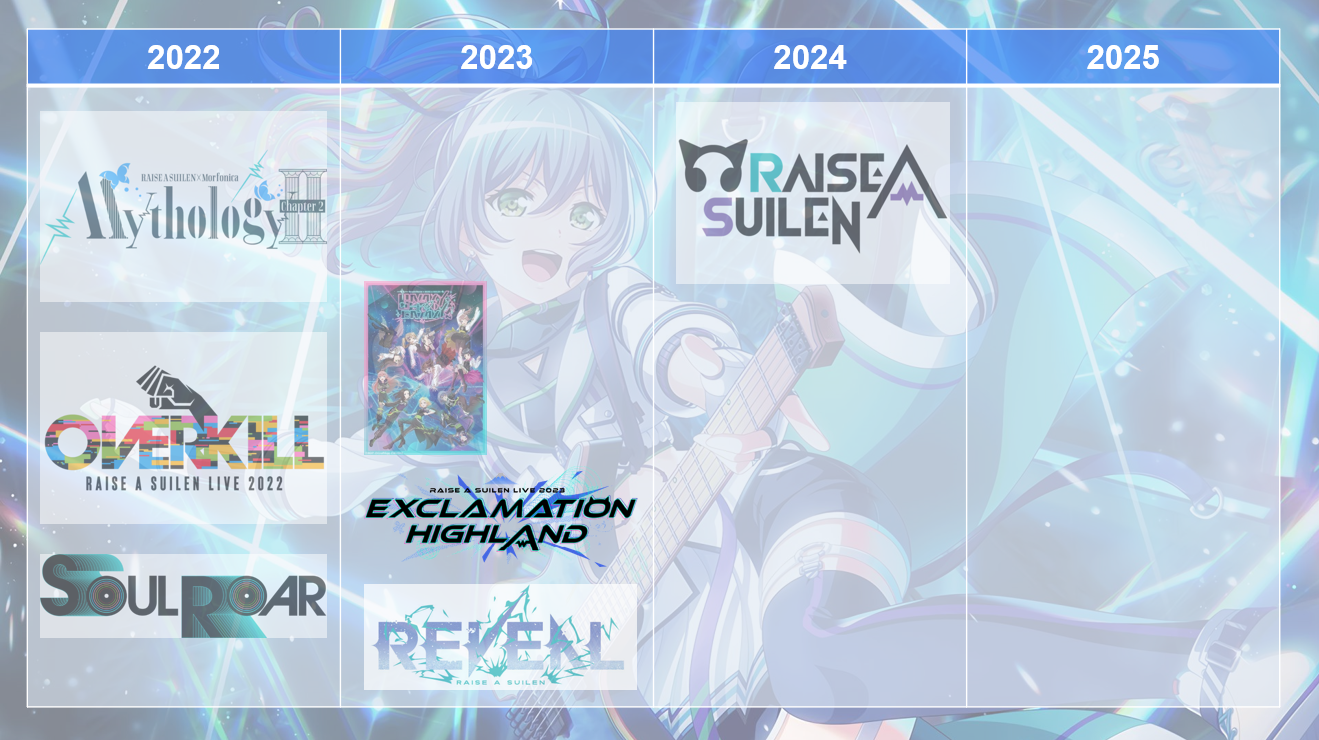
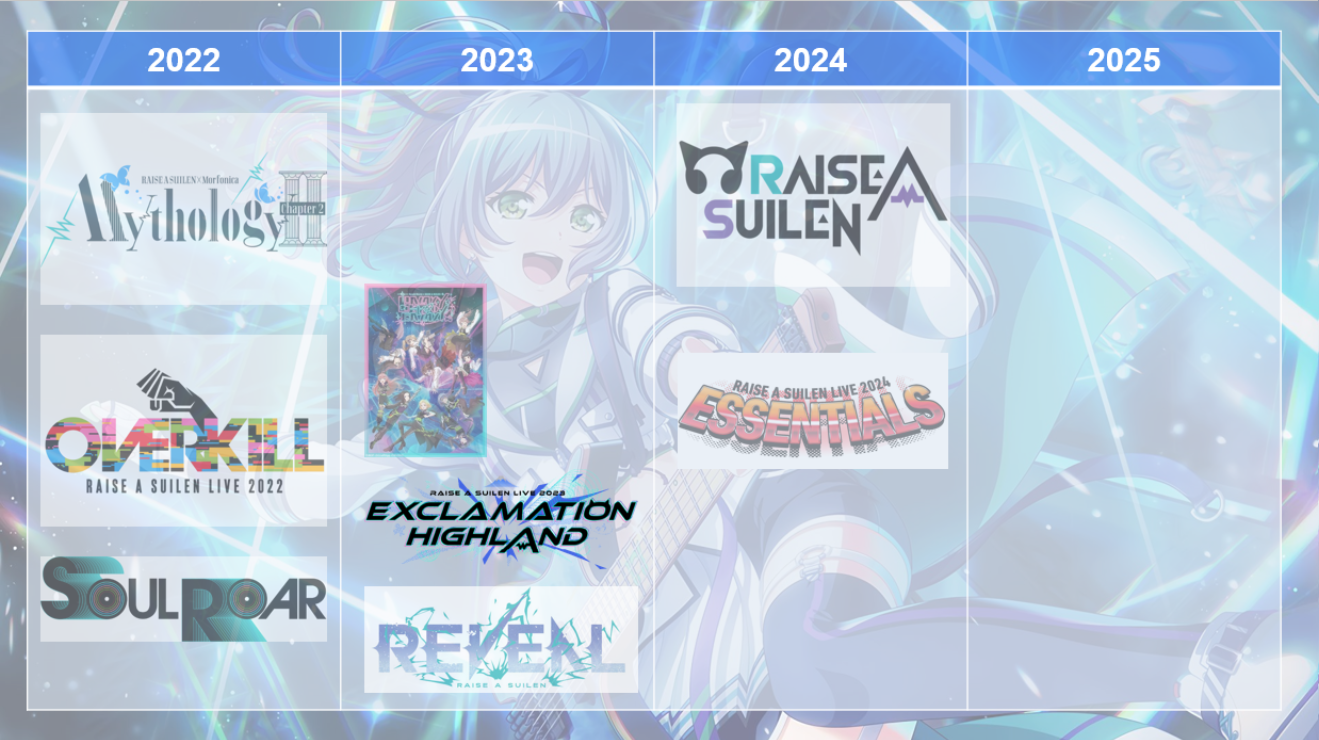
20240323-01

diff --git a/index.html b/index.html
@@ -56,6 +56,11 @@
                     <th>Live</th>
                 </tr>
                 <tr>
+                    <td>2024/08/30(金)</td>
+                    <td>さいたまスーパーアリーナ</td>
+                    <td>Animelo Summer Live 2024</td>
+                </tr>
+                <tr>
                     <td>2024/06/29(土)</td>
                     <td>東京ガーデンシアター</td>
                     <td>Roselia LIVE TOUR「Rosenchor」東京公演</td>
@@ -69,6 +74,11 @@
                     <td>2024/06/15(土)</td>
                     <td>東京ガーデンシアター</td>
                     <td>RAISE A SUILEN LIVE 2024「ESSENTIALS」DAY1</td>
+                </tr>
+                <tr>
+                    <td>2024/04/29(月)</td>
+                    <td>横浜アリーナ</td>
+                    <td>Poppin'Party×MyGO!!!!! 合同ライブ「Divide/Unite」</td>
                 </tr>
                 <tr>
                     <td>2024/02/18(日)</td>
@@ -107,7 +117,7 @@
                 </tr>
                 <tr>
                     <td>2023/08/25(金)</td>
-                    <td>さいたまスーパーアリーナ </td>
+                    <td>さいたまスーパーアリーナ</td>
                     <td>Animelo Summer Live 2023</td>
                 </tr>
                 <tr>
